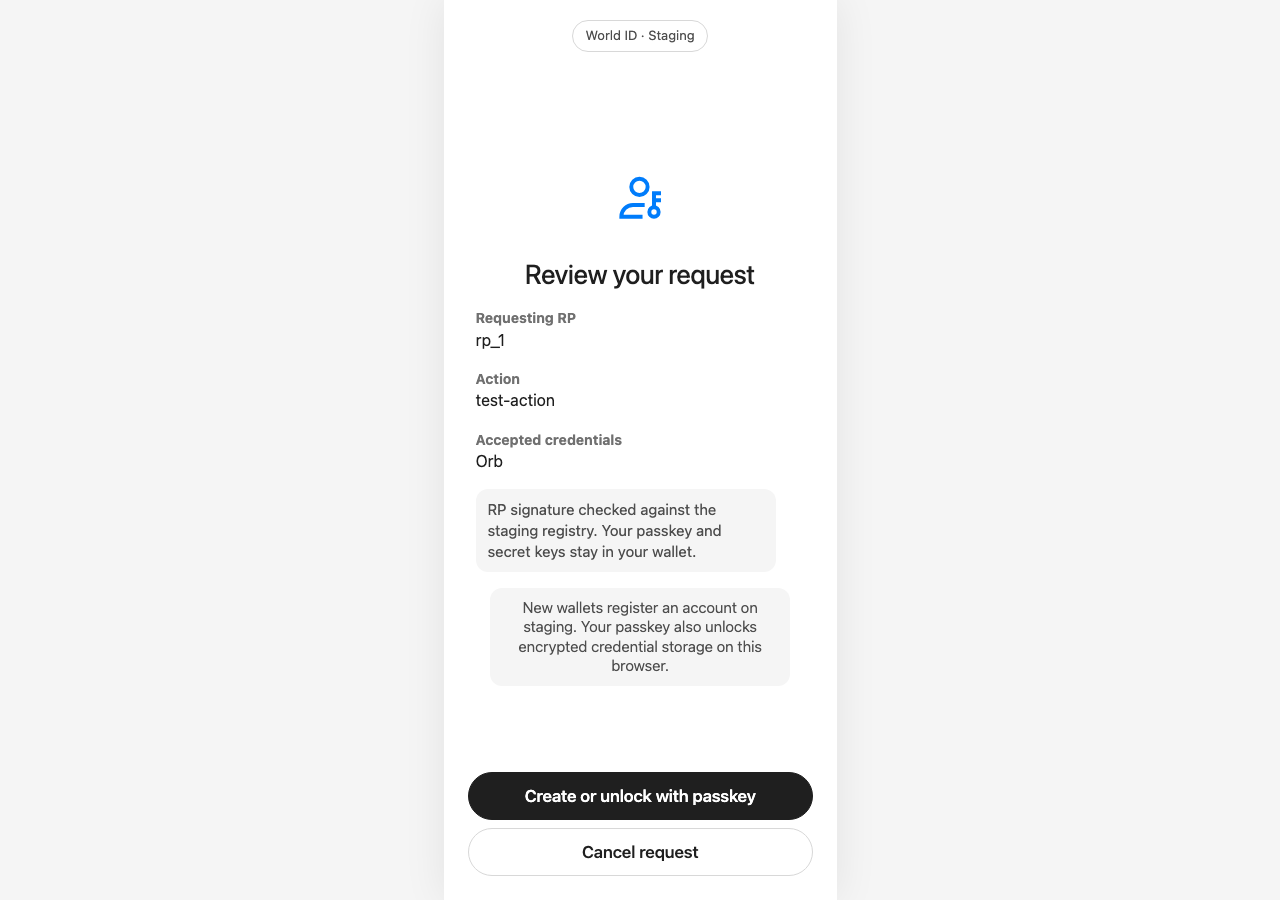
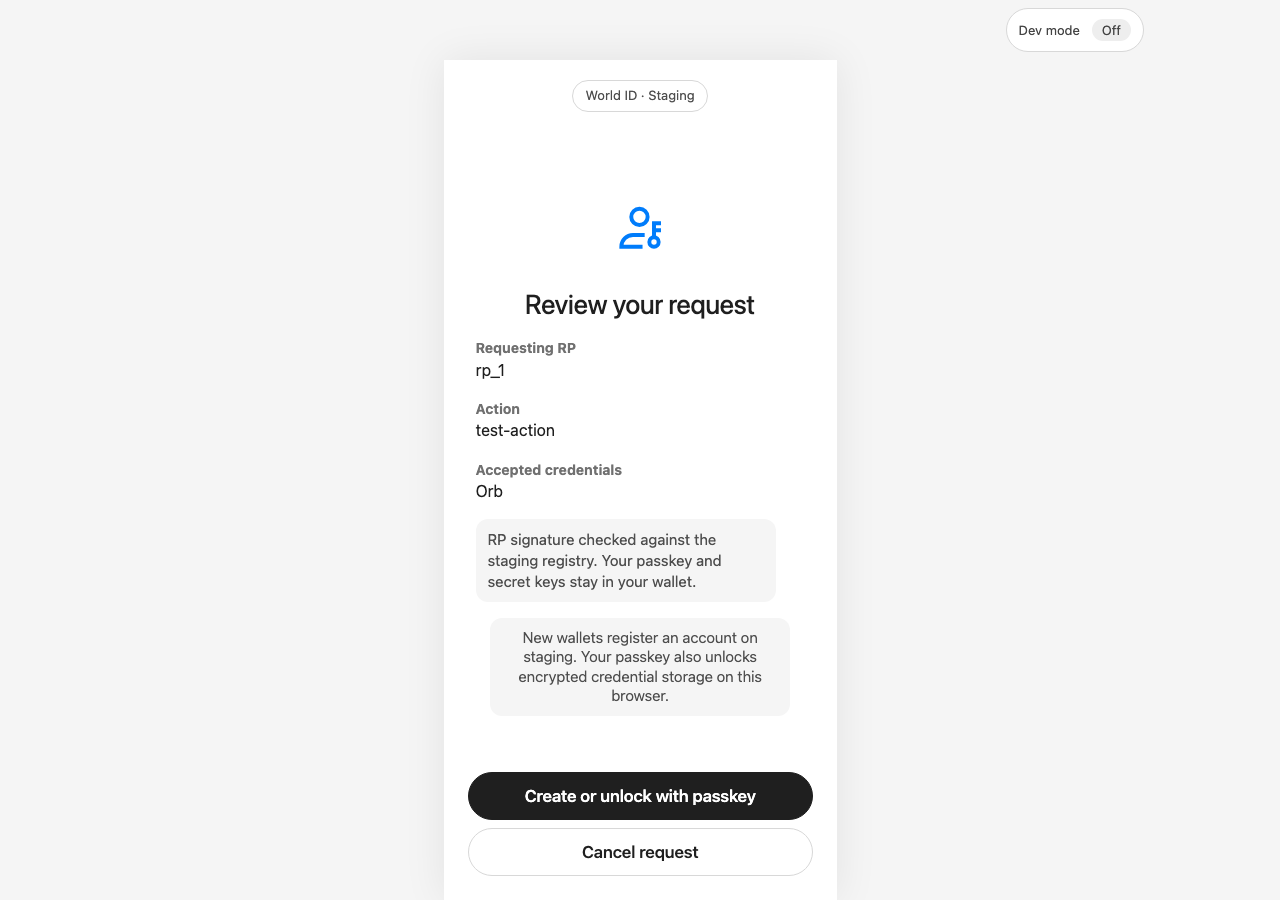
Add opt-in developer panel for credential vault inspection

diff --git a/apps/authenticator/test/app.test.tsx b/apps/authenticator/test/app.test.tsx
@@ -13,19 +13,23 @@ let restore: (() => void) | undefined;
 afterEach(() => { cleanup(); restore?.(); });
 async function fixture(schema: number, available = false) {
   const { payload } = await signedRequest(schema);
-  let records = available ? [{ issuerSchemaId: BigInt(schema), isExpired: false, expiresAt: BigInt(Math.floor(Date.now()/1000)+3600), genesisIssuedAt: 0n } as CredentialMetadata] : [];
-  const calls = { prove: 0, issue: 0, deliver: [] as string[], failDelivery: false };
+  let records = available ? [{ credentialId: 1n, issuerSchemaId: BigInt(schema), isExpired: false, expiresAt: BigInt(Math.floor(Date.now()/1000)+3600), genesisIssuedAt: 0n } as CredentialMetadata] : [];
+  const calls = { prove: 0, issue: 0, deliver: [] as string[], failDelivery: false, listed: 0, deleted: [] as bigint[], failDelete: false, terminated: 0 };
   const incoming: IncomingRequest = {
     proof: payload.proof_request, label: "rp_1", actionLabel: payload.action,
     validate: async () => {}, cancel: async () => {},
     deliver: async proof => { calls.deliver.push(proof); if (calls.failDelivery) throw new Error("Transport unavailable"); },
   };
-  const wallet = { listCredentials: async () => records, terminate: () => {} } as unknown as WalletKit;
+  const wallet = {
+    listCredentials: async () => { calls.listed++; return records; },
+    deleteCredential: async (id: bigint) => { calls.deleted.push(id); if (calls.failDelete) throw new Error("private worker error"); records = records.filter(record => record.credentialId !== id); },
+    terminate: () => { calls.terminated++; },
+  } as unknown as WalletKit;
   const services = {
     load: async () => incoming,
     open: async () => wallet,
     prove: async () => { calls.prove++; return JSON.stringify({ id: "test-request", responses: [{}] }); },
-    issue: async () => { calls.issue++; records = [{ issuerSchemaId: 11n, isExpired: false, expiresAt: BigInt(Math.floor(Date.now()/1000)+3600), genesisIssuedAt: 0n } as CredentialMetadata]; return { credentialId: 1n, issuerSchemaId: 11n }; },
+    issue: async () => { calls.issue++; records = [{ credentialId: 1n, issuerSchemaId: 11n, isExpired: false, expiresAt: BigInt(Math.floor(Date.now()/1000)+3600), genesisIssuedAt: 0n } as CredentialMetadata]; return { credentialId: 1n, issuerSchemaId: 11n }; },
   };
   const mocked = spyOn(globalThis, "fetch").mockResolvedValue(Response.json({ environment: "staging", syntheticSelfieIssuance: true }));
   restore = () => mocked.mockRestore();
@@ -87,4 +91,55 @@ test("missing camera APIs show an actionable failure without crashing the flow",
     if (original) Object.defineProperty(navigator, "mediaDevices", original);
     else Reflect.deleteProperty(navigator, "mediaDevices");
   }
+});
+
+test("dev mode is opt-in, inspects metadata and refreshes without issuing", async () => {
+  const f = await fixture(11, true);
+  const view = render(<AuthenticatorAppV1 services={f.services} />);
+  expect(view.queryByRole("complementary", { name: "Developer tools" })).toBeNull();
+  fireEvent.click(view.getByRole("switch", { name: "Dev mode" }));
+  expect(view.getByText("Unlock your wallet to inspect its credentials.")).toBeTruthy();
+  expect(f.calls.listed).toBe(0);
+  fireEvent.click(await view.findByRole("button", { name: "Create or unlock with passkey" }));
+  expect(await view.findByText("Credential ID")).toBeTruthy();
+  expect(view.getByText(/Schema 11. A proof can disclose/)).toBeTruthy();
+  expect(view.getByText(/CPU \/ WASM/)).toBeTruthy();
+  fireEvent.click(view.getByRole("button", { name: "Refresh vault" }));
+  await waitFor(() => expect(f.calls.listed).toBe(2));
+  expect(f.calls.issue).toBe(0); expect(f.calls.prove).toBe(0);
+  fireEvent.click(view.getByRole("switch", { name: "Dev mode" }));
+  expect(view.queryByRole("complementary", { name: "Developer tools" })).toBeNull();
+});
+
+test("vault deletion requires confirmation and removes proof eligibility", async () => {
+  const f = await fixture(11, true);
+  const view = render(<AuthenticatorAppV1 services={f.services} />);
+  fireEvent.click(view.getByRole("switch", { name: "Dev mode" }));
+  fireEvent.click(await view.findByRole("button", { name: "Create or unlock with passkey" }));
+  await view.findByText("Credential ID");
+  fireEvent.click(view.getByText(/Selfie Check/, { selector: "summary" }));
+  fireEvent.click(view.getByRole("button", { name: "Delete local credential" }));
+  expect(f.calls.deleted).toEqual([]);
+  fireEvent.click(view.getByRole("button", { name: "Keep credential" }));
+  expect(view.queryByRole("button", { name: "Confirm deletion" })).toBeNull();
+  fireEvent.click(view.getByRole("button", { name: "Delete local credential" }));
+  fireEvent.click(view.getByRole("button", { name: "Confirm deletion" }));
+  await view.findByText("No credentials stored yet.");
+  expect(f.calls.deleted).toEqual([1n]);
+  expect((view.getByRole("button", { name: "Approve and share proof" }) as HTMLButtonElement).disabled).toBe(true);
+});
+
+test("unconfirmed vault deletion locks the wallet and hides internal errors", async () => {
+  const f = await fixture(11, true); f.calls.failDelete = true;
+  const view = render(<AuthenticatorAppV1 services={f.services} />);
+  fireEvent.click(view.getByRole("switch", { name: "Dev mode" }));
+  fireEvent.click(await view.findByRole("button", { name: "Create or unlock with passkey" }));
+  await view.findByText("Credential ID");
+  fireEvent.click(view.getByText(/Selfie Check/, { selector: "summary" }));
+  fireEvent.click(view.getByRole("button", { name: "Delete local credential" }));
+  fireEvent.click(view.getByRole("button", { name: "Confirm deletion" }));
+  expect(await view.findByText(/Credential deletion could not be confirmed/)).toBeTruthy();
+  expect(f.calls.terminated).toBe(1);
+  expect(view.queryByText("private worker error")).toBeNull();
+  expect(view.getByText("Unlock your wallet to inspect its credentials.")).toBeTruthy();
 });

diff --git a/apps/authenticator/src/components/DeveloperPanel.tsx b/apps/authenticator/src/components/DeveloperPanel.tsx
@@ -1,0 +1,61 @@
+import { useState } from "react";
+import type { CredentialMetadata } from "../lib/walletkit";
+import type { IncomingRequest } from "../lib/requests/incoming-request";
+import { credentialRequirementsLabel } from "../lib/requests/proof-request";
+import { LIVE_GUIDANCE_MODEL_V1 } from "../walkthrough/model-provenance";
+
+function credentialDescription(schema: bigint) {
+  if (schema === 11n) return { name: "Selfie Check", description: "Schema 11. A proof can disclose the uniqueness score. Credentials issued by this local flow use synthetic face data." };
+  if (schema === 1n) return { name: "Orb", description: "Schema 1. Used for requests accepting Orb verification. Orb enrollment and transfer are not available here." };
+  if (schema === 128n) return { name: "Faux", description: "Schema 128. A development credential; it does not establish face verification." };
+  return { name: "Credential", description: "No description is available for this issuer schema." };
+}
+
+function date(value: bigint) { return new Date(Number(value) * 1000).toLocaleString(); }
+
+export function DeveloperPanel({ records, unlocked, disabled, incoming, canIssue, configurationError, preview, onRefresh, onDelete }: {
+  records: CredentialMetadata[];
+  unlocked: boolean;
+  disabled: boolean;
+  incoming: IncomingRequest | null;
+  canIssue: boolean;
+  configurationError: boolean;
+  preview: boolean;
+  onRefresh: () => void;
+  onDelete: (id: bigint) => void;
+}) {
+  const [selected, setSelected] = useState<bigint | null>(null);
+  const pending = records.find(record => record.credentialId === selected);
+  return <aside id="developer-panel" className="developer-panel" aria-label="Developer tools">
+    <header><p className="dev-eyebrow">Staging workspace</p><h2>Developer tools</h2><p>Inspect this wallet and the active flow.</p></header>
+    <section aria-labelledby="vault-title">
+      <h3 id="vault-title">Credential vault</h3>
+      <p>WalletKit stores credentials and their blinding factors in this browser’s encrypted vault. Your passkey’s PRF output unlocks it.</p>
+      {!unlocked ? <p className="dev-notice">Unlock your wallet to inspect its credentials.</p> : <>
+        <div className="dev-toolbar"><span>{records.length} stored</span><button disabled={disabled} onClick={onRefresh}>Refresh vault</button></div>
+        {!records.length && <p>No credentials stored yet.</p>}
+        {records.map(record => {
+          const info = credentialDescription(record.issuerSchemaId);
+          return <details className="dev-credential" key={record.credentialId.toString()}>
+            <summary>{info.name} <span>· {record.isExpired ? "Expired" : "Active"}</span></summary>
+            <p>{info.description}</p>
+            <dl><dt>Credential ID</dt><dd><code>{record.credentialId.toString()}</code></dd><dt>Issuer schema</dt><dd>{record.issuerSchemaId.toString()}</dd><dt>Originally issued</dt><dd>{date(record.genesisIssuedAt)}</dd><dt>Expires</dt><dd>{date(record.expiresAt)}</dd></dl>
+            <button disabled={disabled} onClick={() => setSelected(record.credentialId)}>Delete local credential</button>
+          </details>;
+        })}
+        {pending && <div className="dev-confirm" role="group" aria-label="Confirm credential deletion">
+          <p>Delete credential <code>{pending.credentialId.toString()}</code> and its local blinding factors? This cannot be undone here. Your passkey, account registration, and issuer records remain unchanged.</p>
+          <div className="dev-toolbar"><button disabled={disabled} onClick={() => { setSelected(null); onDelete(pending.credentialId); }}>Confirm deletion</button><button disabled={disabled} onClick={() => setSelected(null)}>Keep credential</button></div>
+        </div>}
+      </>}
+      <details><summary>What is stored here?</summary><p>The credential vault is local to this browser and origin. A synced passkey does not sync this vault. PCP backup and storage are not connected in this branch.</p><p>This inspector shows metadata only. Secret keys, PRF output, blinding factors, and proof payloads are excluded.</p></details>
+    </section>
+    <section aria-labelledby="request-title"><h3 id="request-title">Current request</h3>
+      {incoming ? <dl><dt>Requesting RP</dt><dd>{incoming.label}</dd><dt>Action</dt><dd>{incoming.actionLabel || "No action label"}</dd><dt>Accepted credentials</dt><dd>{credentialRequirementsLabel(incoming.proof)}</dd><dt>Expires</dt><dd>{date(BigInt(incoming.proof.expires_at))}</dd></dl> : <p>No RP request loaded. Open a request from the separate demo app.</p>}
+    </section>
+    <section aria-labelledby="runtime-title"><h3 id="runtime-title">Camera & issuance</h3>
+      <dl><dt>Preview</dt><dd>{preview ? "Open — local camera guidance" : "Closed"}</dd><dt>Guidance model</dt><dd>{LIVE_GUIDANCE_MODEL_V1.modelKind}</dd><dt>Runtime</dt><dd>{LIVE_GUIDANCE_MODEL_V1.runtimePackage} · {LIVE_GUIDANCE_MODEL_V1.runtimeVersion} · CPU / WASM</dd><dt>Staging issuance</dt><dd>{configurationError ? "Configuration unavailable" : canIssue ? "Available · synthetic face input" : "Unavailable on this server"}</dd><dt>TEE face verification</dt><dd>Not connected</dd></dl>
+      <p>Landmarks and framing heuristics drive the camera instructions. Camera frames stay in this tab; they are not used by the staging issuer.</p>
+    </section>
+  </aside>;
+}

diff --git a/apps/authenticator/src/App.tsx b/apps/authenticator/src/App.tsx
@@ -1,5 +1,6 @@
 import { useEffect, useRef, useState } from "react";
 import { CameraPreview } from "./components/CameraPreview";
+import { DeveloperPanel } from "./components/DeveloperPanel";
 import { openAuthenticator } from "./wallet/session";
 import { walletOpenErrorMessage } from "./wallet/errors";
 import { abortable } from "./lib/async";
@@ -26,6 +27,7 @@ export function AuthenticatorAppV1({ services = defaults }: { services?: typeof 
   const [configurationError, setConfigurationError] = useState(false);
   const [preview, setPreview] = useState(false);
   const [expired, setExpired] = useState(false);
+  const [devMode, setDevMode] = useState(false);
   const operation = useRef<AbortController | null>(null);
   const activeWallet = useRef<WalletKit | null>(null);
   const retainedProof = useRef<string | null>(null);
@@ -93,7 +95,7 @@ export function AuthenticatorAppV1({ services = defaults }: { services?: typeof 
       signal.throwIfAborted(); setRecords(next);
       return next;
     } catch (cause) {
-      closeWallet();
+      closeWallet(); setProgress("");
       throw new Error("Could not read the encrypted vault. Unlock again to retry.", { cause });
     }
   }
@@ -155,8 +157,30 @@ export function AuthenticatorAppV1({ services = defaults }: { services?: typeof 
     : screen === "delivery" ? "Sending your proof" : screen === "enroll" ? "Set up Selfie Check"
     : incoming ? "Review your request" : wallet ? "Your World ID wallet" : "World ID authenticator";
   const finished = screen === "done" || screen === "cancelled";
+  const vaultDisabled = busy || screen === "delivery" || finished;
 
-  return <main className="app-main">
+  const refreshVault = () => run(async signal => {
+    if (!wallet || vaultDisabled) return;
+    await refresh(wallet, signal);
+    setProgress("Credential vault refreshed.");
+  });
+  const deleteCredential = (id: bigint) => run(async signal => {
+    if (!wallet || vaultDisabled || !records.some(record => record.credentialId === id)) return;
+    setProgress("Deleting local credential…");
+    try {
+      await abortable(wallet.deleteCredential(id), AbortSignal.any([signal, AbortSignal.timeout(15_000)]));
+      signal.throwIfAborted();
+    } catch (cause) {
+      closeWallet(); setProgress("");
+      throw new Error("Credential deletion could not be confirmed. Unlock again to check the vault before retrying.", { cause });
+    }
+    await refresh(wallet, signal);
+    setProgress("Local credential deleted.");
+  });
+
+  return <div className={`authenticator-shell${devMode ? " authenticator-shell--dev" : ""}`}>
+    <header className="dev-mode-bar"><button className="dev-mode-switch" role="switch" aria-checked={devMode} aria-controls={devMode ? "developer-panel" : undefined} onClick={() => setDevMode(value => !value)}>Dev mode <span aria-hidden="true">{devMode ? "On" : "Off"}</span></button></header>
+    <div className="authenticator-layout"><main className="app-main">
     <p className="staging-banner">World ID · Staging</p>
     <div className="screen-content"><div className="centered-layout">
       <img className="hero-icon" src={`/assets/figma/${screen === "done" ? "success-emblem" : "person-key-blue"}.svg`} alt="" />
@@ -207,5 +231,8 @@ export function AuthenticatorAppV1({ services = defaults }: { services?: typeof 
       {finished && incoming?.returnUrl && <a className="primary-action return-link" href={incoming.returnUrl}>Return to requesting app</a>}
       {(finished || loadFailed) && <a className="secondary-action return-link" href="/">Open authenticator</a>}
     </div>
-  </main>;
+    </main>
+    {devMode && <DeveloperPanel key={wallet ? "unlocked" : "locked"} records={records} unlocked={!!wallet} disabled={vaultDisabled} incoming={incoming} canIssue={canIssue} configurationError={configurationError} preview={preview} onRefresh={() => void refreshVault()} onDelete={id => void deleteCredential(id)} />}
+    </div>
+  </div>;
 }

diff --git a/apps/authenticator/src/styles/app.css b/apps/authenticator/src/styles/app.css
@@ -501,13 +501,36 @@ h1:focus {
 }
 
 @media (min-width: 394px) {
-  body {
-    padding-inline: calc((100vw - 393px) / 2);
-  }
-
   .app-main {
     box-shadow: 0 0 40px rgb(0 0 0 / 8%);
   }
+}
+
+.dev-mode-bar { display: flex; justify-content: flex-end; max-width: 1040px; margin: 0 auto; padding: 8px 16px; }
+.dev-mode-switch { display: flex; align-items: center; gap: 12px; padding: 0 12px; border: 1px solid #d8d8d8; border-radius: 999px; background: #fff; color: #444; font-size: 13px; }
+.dev-mode-switch span { border-radius: 999px; padding: 3px 10px; background: #eee; }
+.dev-mode-switch[aria-checked="true"] span { background: #1f1f1f; color: #fff; }
+.authenticator-shell .app-main { min-height: calc(100svh - 60px); min-height: calc(100dvh - 60px); }
+.authenticator-layout { margin: 0 auto; }
+.developer-panel { min-width: 0; margin: 24px 16px; padding: 24px; border: 1px solid #ddd; border-radius: 20px; background: #fff; font-size: 14px; line-height: 1.55; overflow-wrap: anywhere; }
+.developer-panel h2 { font-size: 24px; margin: 0 0 8px; }
+.developer-panel h3 { font-size: 16px; margin: 0 0 8px; }
+.developer-panel p { margin: 8px 0 16px; }
+.developer-panel .dev-eyebrow { color: #555; font-size: 12px; text-transform: uppercase; letter-spacing: .08em; margin: 0 0 8px; }
+.developer-panel section { border-top: 1px solid #e5e5e5; padding-top: 20px; margin-top: 20px; }
+.developer-panel summary { cursor: pointer; font-weight: 600; padding: 12px 0; }
+.developer-panel summary span { font-weight: 400; color: #555; }
+.developer-panel button { border: 1px solid #ccc; border-radius: 10px; padding: 8px 12px; background: #fff; color: #222; font-size: 13px; }
+.developer-panel dl { margin: 12px 0; }
+.developer-panel dt { color: #555; font-size: 12px; margin-top: 10px; }
+.developer-panel dd { margin: 2px 0 0; }
+.developer-panel code { font-size: 12px; }
+.dev-toolbar { display: flex; align-items: center; flex-wrap: wrap; gap: 12px; justify-content: space-between; }
+.dev-credential { border-top: 1px solid #eee; padding-bottom: 8px; }
+.dev-notice, .dev-confirm { background: #f5f5f5; padding: 12px; border-radius: 10px; }
+@media (min-width: 850px) {
+  .authenticator-shell--dev .authenticator-layout { display: grid; grid-template-columns: 393px minmax(0, 440px); gap: 32px; max-width: 913px; padding: 0 24px; align-items: start; }
+  .developer-panel { margin: 0 0 24px; }
 }
 
 @media (prefers-reduced-motion: reduce) {

diff --git a/tests/integration/browser/authenticator.browser.spec.ts b/tests/integration/browser/authenticator.browser.spec.ts
@@ -19,6 +19,34 @@ if (!("bun" in process.versions)) {
     }
   });
 
+  test("dev tools are opt-in, responsive and accessible without opening a wallet", async ({ page }, info) => {
+    await page.addInitScript({ content: axe.source });
+    await page.goto("/");
+    await expect(page.getByRole("heading", { name: "World ID authenticator" })).toBeVisible();
+    const toggle = page.getByRole("switch", { name: "Dev mode" });
+    await expect(toggle).toHaveAttribute("aria-checked", "false");
+    await expect(page.getByRole("complementary")).toHaveCount(0);
+    await toggle.click();
+    await expect(page.getByRole("complementary", { name: "Developer tools" })).toBeVisible();
+    await expect(page.getByText("Unlock your wallet to inspect its credentials.")).toBeVisible();
+    await page.getByText("What is stored here?", { exact: true }).click();
+    for (const viewport of [{ width: 320, height: 568 }, { width: 1280, height: 900 }]) {
+      await page.setViewportSize(viewport);
+      expect(await page.evaluate(() => document.documentElement.scrollWidth <= document.documentElement.clientWidth)).toBe(true);
+      await page.screenshot({ path: `test-results/screenshots/${info.project.name}-dev-${viewport.width}.png`, fullPage: true });
+    }
+    const violations = await page.evaluate(async () => {
+      const runtime = (window as typeof window & { axe: { run(): Promise<{ violations: unknown[] }> } }).axe;
+      return (await runtime.run()).violations;
+    });
+    expect(violations).toEqual([]);
+    await toggle.click();
+    await expect(page.getByRole("complementary")).toHaveCount(0);
+    expect(await page.evaluate(() => ({ local: Object.keys(localStorage), session: Object.keys(sessionStorage) }))).toEqual({ local: [], session: [] });
+    await page.reload();
+    await expect(toggle).toHaveAttribute("aria-checked", "false");
+  });
+
   test("signed external request shows its requirements and sends encrypted rejection", async ({ page }, info) => {
     const { payload, registry } = await signedRequest(1);
     const encrypted = await encryptedRequest(payload);

diff --git a/README.md b/README.md
@@ -77,8 +77,17 @@ multiple local checkouts. Run one issuer process per directory; the in-memory
 concurrency guard is not a distributed lock.
 
 The optional MediaPipe camera preview stays local and provides framing guidance.
+It uses Face Landmarker through CPU/WASM, not ONNX.
 It does **not** supply the issuer input or establish liveness. TEE capture, challenge
 verification and production Selfie Check issuance remain separate integrations.
+
+The **Dev mode** switch is off by default and resets on reload. It opens a side
+panel (below the authenticator on narrow screens) with credential descriptions,
+IDs, dates, vault refresh and confirmed local deletion, plus request and runtime
+details. Unlock the wallet before inspecting credentials. Vault mutations are
+disabled during active operations and pending proof delivery. The inspector never
+shows secret keys, PRF output, blinding factors or proof payloads. Deleting a local
+credential does not delete the passkey, account registration or issuer record.
 
 ## Storage
 
